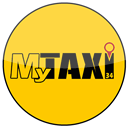
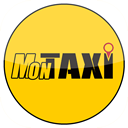
Name Change + Up to v1.4.5

Changed region(s): [[0.0, 0.0, 1.0, 1.0], [0.5, 0.4062, 0.5938, 0.4375]]

diff --git a/home.html b/home.html
@@ -3,7 +3,7 @@
     <head>
     <meta http-equiv="Content-Type" content="text/html; charset=utf-8" />
     <meta http-equiv="CONTENT-LANGUAGE" content="French">
-    <title>myTaxi by TaxiMedia</title>
+    <title>MonTaxi by TaxiMedia</title>
     <link type="image/x-icon" href="visuels/favicon.ico" rel="icon"/>
     <link type="image/x-icon" href="visuels/favicon.ico" rel="shortcut icon"/>
     <link rel="apple-touch-icon" href="visuels/idev.favicon.png"/>
@@ -70,7 +70,7 @@
               <li><a href="#directions_map" data-transition="slide" class="ui-btn ui-btn-icon-left ui-icon-location"><b>Carte GPS</b></a></li>
               <li><a href="#" onClick="help()" data-transition="slide" class="ui-btn ui-btn-icon-left ui-icon-bullets"><b>Aide utilisateur</b></a></li>
               <li><a href="#" onClick="taximedia()" data-transition="slide" class="ui-btn ui-btn-icon-left ui-icon-eye"><b>TaxiMedia.fr</b></a></li>
-              <li><a href="#infos" data-transition="slide" class="ui-btn ui-btn-icon-left ui-icon-info"><b>Infos myTaxi</b></a></li>
+              <li><a href="#infos" data-transition="slide" class="ui-btn ui-btn-icon-left ui-icon-info"><b>Infos monTaxi</b></a></li>
               <li><a href="#" onClick="myTaxiDown()" data-transition="slide" class="ui-btn ui-btn-icon-left ui-icon-action"><b>Envoyer une course</b></a></li>
               <li><a href="#" onClick="goScan()" data-transition="slide" class="ui-btn ui-btn-icon-left ui-icon-camera"><b>Scanner un code</b></a></li>
               <li><a href="#" onClick="contactShare()" data-transition="slide" class="ui-btn ui-btn-icon-left ui-icon-mail"><b>Envoyer l&rsquo;app</b></a></li>
@@ -135,7 +135,7 @@
 					<a href="#infos" data-transition="slide" style="width:32%;display:inline-block;">
                     	<p style="font-size: x-small;color:#FFF;">
                             <img src="visuels/VilleDeMontpellier_flat.png" width="90%"/><br>
-                            Infos myTaxi
+                            Infos monTaxi
                         </p>
                     </a>
 					<a href="#" onClick="taximedia()" data-transition="slide" style="width:32%;display:inline-block;">
@@ -180,7 +180,7 @@
                 <a href="#homepanel" id="homepanel_poper"></a>
             </div>
             <div data-theme="a" data-role="footer" id="footer_cont0" data-position="fixed">
-				<div class="ui-bar-b ui-corner-all ui-shadow" style="width:96%;height:19px;"><marquee><b>Mise &agrave; jour des informations myTaxi en cours.</b></marquee></div>
+				<div class="ui-bar-b ui-corner-all ui-shadow" style="width:96%;height:19px;"><marquee><b>Mise &agrave; jour des informations monTaxi en cours.</b></marquee></div>
                 <p class="copyright" style="font-size:xx-small">&copy; 2012 - </p>
             </div>
         </div>
@@ -253,7 +253,7 @@
                 -->
             </div>
             <div data-theme="a" data-role="footer" id="footer_cont1" data-position="fixed">
-				<div class="ui-bar-b ui-corner-all ui-shadow" style="width:96%;height:19px;"><marquee><b>Mise &agrave; jour des informations myTaxi en cours.</b></marquee></div>
+				<div class="ui-bar-b ui-corner-all ui-shadow" style="width:96%;height:19px;"><marquee><b>Mise &agrave; jour des informations monTaxi en cours.</b></marquee></div>
                 <p class="copyright" style="font-size:xx-small">&copy; 2012 - </p>
             </div>
         </div>
@@ -285,7 +285,7 @@
                 </div>
             </div>
             <div data-theme="a" data-role="footer" id="footer_cont2" data-position="fixed">
-				<div class="ui-bar-b ui-corner-all ui-shadow" style="width:96%;height:19px;"><marquee><b>Mise &agrave; jour des informations myTaxi en cours.</b></marquee></div>
+				<div class="ui-bar-b ui-corner-all ui-shadow" style="width:96%;height:19px;"><marquee><b>Mise &agrave; jour des informations monTaxi en cours.</b></marquee></div>
                 <p class="copyright" style="font-size:xx-small">&copy; 2012 - </p>
             </div>
         </div>
@@ -326,14 +326,14 @@
 					<a href="#infos" data-transition="slide" style="width:32%;display:inline-block;">
                     	<p style="font-size: x-small;color:#FFF;">
                             <img src="visuels/VilleDeMontpellier_flat.png" width="90%"/><br>
-                            Infos myTaxi
+                            Infos monTaxi
                         </p>
                     </a>
                 </div>
                 <div class="cleaner"></div>
             </div>
             <div data-theme="a" data-role="footer" id="footer_cont3" data-position="fixed">
-				<div class="ui-bar-b ui-corner-all ui-shadow" style="width:96%;height:19px;"><marquee><b>Mise &agrave; jour des informations myTaxi en cours.</b></marquee></div>
+				<div class="ui-bar-b ui-corner-all ui-shadow" style="width:96%;height:19px;"><marquee><b>Mise &agrave; jour des informations monTaxi en cours.</b></marquee></div>
                 <p class="copyright" style="font-size:xx-small">&copy; 2012 - </p>
             </div>
         </div>
@@ -355,7 +355,7 @@
                </div>
             </div>
             <div data-theme="a" data-role="footer" id="footer_cont4" data-position="fixed">
-				<div class="ui-bar-b ui-corner-all ui-shadow" style="width:96%;height:19px;"><marquee><b>Mise &agrave; jour des informations myTaxi en cours.</b></marquee></div>
+				<div class="ui-bar-b ui-corner-all ui-shadow" style="width:96%;height:19px;"><marquee><b>Mise &agrave; jour des informations monTaxi en cours.</b></marquee></div>
                 <p class="copyright" style="font-size:xx-small">&copy; 2012 - </p>
             </div>
         </div>
@@ -377,7 +377,7 @@
                </div>
             </div>
             <div data-theme="a" data-role="footer" id="footer_cont5" data-position="fixed">
-				<div class="ui-bar-b ui-corner-all ui-shadow" style="width:96%;height:19px;"><marquee><b>Mise &agrave; jour des informations myTaxi en cours.</b></marquee></div>
+				<div class="ui-bar-b ui-corner-all ui-shadow" style="width:96%;height:19px;"><marquee><b>Mise &agrave; jour des informations monTaxi en cours.</b></marquee></div>
                 <p class="copyright" style="font-size:xx-small">&copy; 2012 - </p>
             </div>
         </div>
@@ -425,9 +425,9 @@
                                 </select>
                                 <input type="text" id="nom" name="nom" data-clear-btn="true" placeholder="Nom" maxlength="60" size="20" value="">
                                 <input type="text" id="prenom" name="prenom" data-clear-btn="true" placeholder="Pr&eacute;nom" maxlength="60" size="20" value="">
-                                <input type="tel" name="taxi" id="taxi" placeholder="Num&eacute;ro de taxi" maxlength="6" size="20" class="required">
+                                <input type="tel" name="taxi" id="taxi" placeholder="ADS (N&deg taxi)" maxlength="6" size="20" class="required">
                                 <input type="tel" name="tel" id="tel" placeholder="T&eacute;l&eacute;phone (Sans espace SVP)" maxlength="10" size="20" class="required"><em></em>
-                                <!-- <input type="tel" name="siret" placeholder="N&deg; SIRET (14 chiffres sans espace SVP)" maxlength="14" size="20" class="required"><em></em> -->
+                                <input type="text" name="cpro" id="cpro" placeholder="N&deg; Carte Professionnelle" maxlength="32" size="20" class="required"><em></em>
                                 <input type="tel" name="station" id="station" placeholder="CP Commune Rattachement" maxlength="5" size="20" class="required"><em></em>
                                 <select name="type" id="type">
                                     <option selected value="Berline">Type de vehicule</option>
@@ -610,7 +610,7 @@
                         </div>
                         <div data-role="collapsible" data-collapsed="true">
                             <h1>
-                                Partager myTaxi 34 
+                                Partager monTaxi 34 
                             </h1>
                             <table width="100%" border="0">
                                 <thead><tr><th width="90%"></th><th width="10%"></th></tr></thead>
@@ -644,7 +644,7 @@
                 </div>
             </div>
             <div data-theme="a" data-role="footer" id="footer_cont7" data-position="fixed">
-				<div class="ui-bar-b ui-corner-all ui-shadow" style="width:96%;height:19px;"><marquee><b>Mise &agrave; jour des informations myTaxi en cours.</b></marquee></div>
+				<div class="ui-bar-b ui-corner-all ui-shadow" style="width:96%;height:19px;"><marquee><b>Mise &agrave; jour des informations monTaxi en cours.</b></marquee></div>
                 <p class="copyright" style="font-size:xx-small">&copy; 2012 - </p>
             </div>
         </div>
@@ -691,7 +691,7 @@
                </div>                    
             </div>
             <div data-theme="a" data-role="footer" id="footer_cont8" data-position="fixed">
-				<div class="ui-bar-b ui-corner-all ui-shadow" style="width:96%;height:19px;"><marquee><b>Mise &agrave; jour des informations myTaxi en cours.</b></marquee></div>
+				<div class="ui-bar-b ui-corner-all ui-shadow" style="width:96%;height:19px;"><marquee><b>Mise &agrave; jour des informations monTaxi en cours.</b></marquee></div>
                 <p class="copyright" style="font-size:xx-small">&copy; 2012 - </p>
             </div>
         </div>

diff --git a/js/home.js b/js/home.js
@@ -1,4 +1,3 @@
-
 var taxi = $.localStorage.getItem('taxi');
 var tel = $.localStorage.getItem('tel');
 var email = $.localStorage.getItem('email');
@@ -6,6 +5,7 @@ var civil = $.localStorage.getItem('civil');
 var nom = $.localStorage.getItem('nom');
 var prenom = $.localStorage.getItem('prenom');
 var siret = $.localStorage.getItem('siret');
+var cpro = $.localStorage.getItem('cpro');
 var station = $.localStorage.getItem('station');
 var group = $.localStorage.getItem('group');
 var mngid = $.localStorage.getItem('mngid');
@@ -178,7 +178,7 @@ $('#manage').live('pagecreate', function() {
 	$('#taxi').val(taxi);
 	$('#tel').val(tel);
 	$('#email').val(email);
-	//$('#siret').val(siret);
+	$('#cpro').val(cpro);
 	$('#station').val(dec_station);
 	$('#log').val(tel);
 	$.post("https://www.mytaxiserver.com/client/billing.php", { taxi: taxi, pass: pass, dep: '34', mngid: mngid }, function(data){
@@ -647,7 +647,7 @@ function myTaxiDown()
 function Share()
 {
 	var number = $('#telShare').val();
-	var message = "Téléchargez l'app myTaxi 34 en suivant ce lien : http://www.taximedia.fr/stores.php?app=mytaxi&dep=34";
+	var message = "Téléchargez l'app monTaxi 34 en suivant ce lien : http://www.taximedia.fr/stores.php?app=mytaxi&dep=34";
 	var intent = ""; //leave empty for sending sms using default intent
 	var success = function () {
 		//navigator.notification.alert('Message sent successfully');
@@ -664,7 +664,7 @@ function Share()
 function ShareArt()
 {
 	var number = $('#telShare').val();
-	var message = "Téléchargez l'app artisan taxi myTaxi 34 Corp en suivant ce lien : http://www.taximedia.fr/stores.php?app=dcvp&dep=34";
+	var message = "Téléchargez l'app artisan taxi monTaxi 34 Corp en suivant ce lien : http://www.taximedia.fr/stores.php?app=dcvp&dep=34";
 	var intent = ""; //leave empty for sending sms using default intent
 	var success = function () {
 		//navigator.notification.alert('Message sent successfully');
@@ -681,7 +681,7 @@ function ShareArt()
 function SharePro()
 {
 	var number = $('#telShare').val();
-	var message = "Téléchargez l'app myTaxi 34 Pro sur les sores en suivant ce lien : http://www.taximedia.fr/stores.php?app=pro&dep=34  ou rendez-vous sur le WebService en suivant ce lien : http://www.taximedia.fr/pro34/";
+	var message = "Téléchargez l'app monTaxi 34 Pro sur les sores en suivant ce lien : http://www.taximedia.fr/stores.php?app=pro&dep=34  ou rendez-vous sur le WebService en suivant ce lien : http://www.taximedia.fr/pro34/";
 	var intent = ""; //leave empty for sending sms using default intent
 	var success = function () {
 		//navigator.notification.alert('Message sent successfully');
@@ -701,7 +701,7 @@ function contactShare()
 		setTimeout(function(){
 			//navigator.notification.alert(result.name + " " + result.phoneNumber);
 			var number = result.phoneNumber;
-			var message = "Téléchargez l'app myTaxi 34 en suivant ce lien : http://www.taximedia.fr/stores.php?app=mytaxi&dep=34";
+			var message = "Téléchargez l'app monTaxi 34 en suivant ce lien : http://www.taximedia.fr/stores.php?app=mytaxi&dep=34";
 			var intent = ""; //leave empty for sending sms using default intent
 			var success = function () {
 				//navigator.notification.alert('Message sent successfully');
@@ -867,13 +867,10 @@ $(document).ready(function(){
 		 nom: "required",
 		 prenom: "required",
 		 taxi: "required",
+		 cpro: "required",
 		 tel: {
 		   required: true,
 		   phone: true
-		 },
-		 siret: {
-		   required: true,
-		   siret: true
 		 },
 		 station: "required",
 		 email: {
@@ -887,10 +884,19 @@ $(document).ready(function(){
 		 }
 		},
 		messages: {
+		 login: {
+		   required: "Ce champs est obligatoire"
+		 },
 		 nom: "Ce champs est obligatoire",
 		 prenom: "Ce champs est obligatoire",
 		 taxi: "Ce champs est obligatoire",
-		 station: "Ce champs est obligatoire",
+		 cpro: "Le N&deg; de Carte Professionelle est obligatoire",
+		 tel: {
+		   required: "Le T&eacute;l&eacute;phone est obligatoire"
+		 },
+		 station: {
+		   required: "Ce champs est obligatoire"
+		 },
 		 email: {
 		   required: "Nous avons besoin de votre email afin de vous contacter",
 		   email: "Votre email doit &ecirc;tre au format nom@domaine.com"
@@ -918,7 +924,7 @@ $(document).ready(function(){
 				$.localStorage.setItem('prenom', data.prenom);
 				$.localStorage.setItem('taxi', data.taxi);
 				$.localStorage.setItem('tel', data.tel);
-				//$.localStorage.setItem('siret', data.siret);
+				$.localStorage.setItem('cpro', data.cpro);
 				$.localStorage.setItem('email', data.email);
 				$.localStorage.setItem('station', data.station);
 				$.sessionStorage.setItem('pwd', data.pwd);

diff --git a/index.html b/index.html
@@ -3,7 +3,7 @@
     <head>
         <meta http-equiv="Content-Type" content="text/html; charset=utf-8" />
         <meta http-equiv="CONTENT-LANGUAGE" content="French">
-        <title>myTaxi by TaxiMedia</title>
+        <title>MonTaxi by TaxiMedia</title>
         <link type="image/x-icon" href="visuels/favicon.ico" rel="icon"/>
         <link type="image/x-icon" href="visuels/favicon.ico" rel="shortcut icon"/>
         <link rel="apple-touch-icon" href="visuels/idev.favicon.png"/>
@@ -100,7 +100,7 @@
                                 </select>
                                 <input type="text" name="nom" placeholder="Nom" maxlength="60" size="20" class="required"><em></em>
                                 <input type="text" name="prenom" placeholder="Pr&eacute;nom" maxlength="60" size="20" class="required"><em></em>	
-                                <input type="tel" name="taxi" placeholder="Num&eacute;ro de taxi" maxlength="6" size="20" class="required"><em></em>
+                                <input type="tel" name="taxi" placeholder="ADS (N&deg taxi)" maxlength="6" size="20" class="required"><em></em>
                                 <input type="tel" name="tel" placeholder="T&eacute;l&eacute;phone (Sans espace SVP)" maxlength="10" size="20" class="required"><em></em>
                                 <!-- <input type="tel" name="siret" placeholder="N&deg; SIRET (14 chiffres sans espace SVP)" maxlength="14" size="20" class="required"><em></em> -->
                                 <input type="tel" name="station" placeholder="Code Postal Commune Rattachement" maxlength="5" size="20" class="required"><em></em>
@@ -326,7 +326,7 @@
                 </div>        
             </div>
             <div data-theme="a" data-role="footer" id="footer_cont" data-position="fixed">
-				<div class="ui-bar-a ui-corner-all ui-shadow" style="width:96%;height:19px;"><marquee><b>Mise &agrave; jour des information myTaxi en cours.</b></marquee></div>
+				<div class="ui-bar-a ui-corner-all ui-shadow" style="width:96%;height:19px;"><marquee><b>Mise &agrave; jour des information monTaxi en cours.</b></marquee></div>
                 <p class="copyright" style="font-size:xx-small">&copy; 2012 - </p>
             </div>
         </div>

diff --git a/js/index.js b/js/index.js
@@ -20,6 +20,7 @@ function active()
 		$.localStorage.setItem('nom', data.nom);
 		$.localStorage.setItem('prenom', data.prenom);
 		$.localStorage.setItem('taxi', data.taxi);
+		$.localStorage.setItem('cpro', data.cpro);
 		$.localStorage.setItem('tel', data.tel);
 		$.localStorage.setItem('siret', data.siret);
 		$.localStorage.setItem('email', data.email);
@@ -187,6 +188,7 @@ $(document).on( 'pagecreate', function() {
 			$.localStorage.setItem('nom', data.nom);
 			$.localStorage.setItem('prenom', data.prenom);
 			$.localStorage.setItem('taxi', data.taxi);
+			$.localStorage.setItem('cpro', data.cpro);
 			$.localStorage.setItem('tel', data.tel);
 			$.localStorage.setItem('siret', data.siret);
 			$.localStorage.setItem('email', data.email);
@@ -252,6 +254,7 @@ $(document).ready(function(){
 		 nom: "required",
 		 prenom: "required",
 		 taxi: "required",
+		 cpro: "required",
 		 tel: {
 		   required: true,
 		   phone: true
@@ -282,7 +285,8 @@ $(document).ready(function(){
 		messages: {
 		 nom: "Le Nom est obligatoire",
 		 prenom: "Le Pr&eacute;nom est obligatoire",
-		 taxi: "La License de Taxi est obligatoire",
+		 taxi: "L&rsquo;ADS (N&deg; de Taxi) est obligatoire",
+		 cpro: "Le N&deg; de Carte Professionelle est obligatoire",
 		 tel: {
 		   required: "Le T&eacute;l&eacute;phone est obligatoire"
 		 },
@@ -338,6 +342,7 @@ $(document).ready(function(){
 				$.localStorage.setItem('nom', data.nom);
 				$.localStorage.setItem('prenom', data.prenom);
 				$.localStorage.setItem('taxi', data.taxi);
+				$.localStorage.setItem('cpro', data.cpro);
 				$.localStorage.setItem('tel', data.tel);
 				$.localStorage.setItem('siret', data.siret);
 				$.localStorage.setItem('station', data.station);
@@ -363,6 +368,7 @@ $(document).ready(function(){
 						$.localStorage.setItem('nom', data.nom);
 						$.localStorage.setItem('prenom', data.prenom);
 						$.localStorage.setItem('taxi', data.taxi);
+						$.localStorage.setItem('cpro', data.cpro);
 						$.localStorage.setItem('tel', data.tel);
 						$.localStorage.setItem('siret', data.siret);
 						$.localStorage.setItem('email', data.email);

diff --git a/css/mobile.css b/css/mobile.css
@@ -26,10 +26,12 @@ input[type=text], input[type=tel], input[type=date], input[type=time], input[typ
 
 :-moz-placeholder { /* Firefox 18- */
    color: #333;
+   opacity:  1;
 }
 
 ::-moz-placeholder {  /* Firefox 19+ */
    color: #333;
+   opacity:  1;
 }
 
 :-ms-input-placeholder {  
